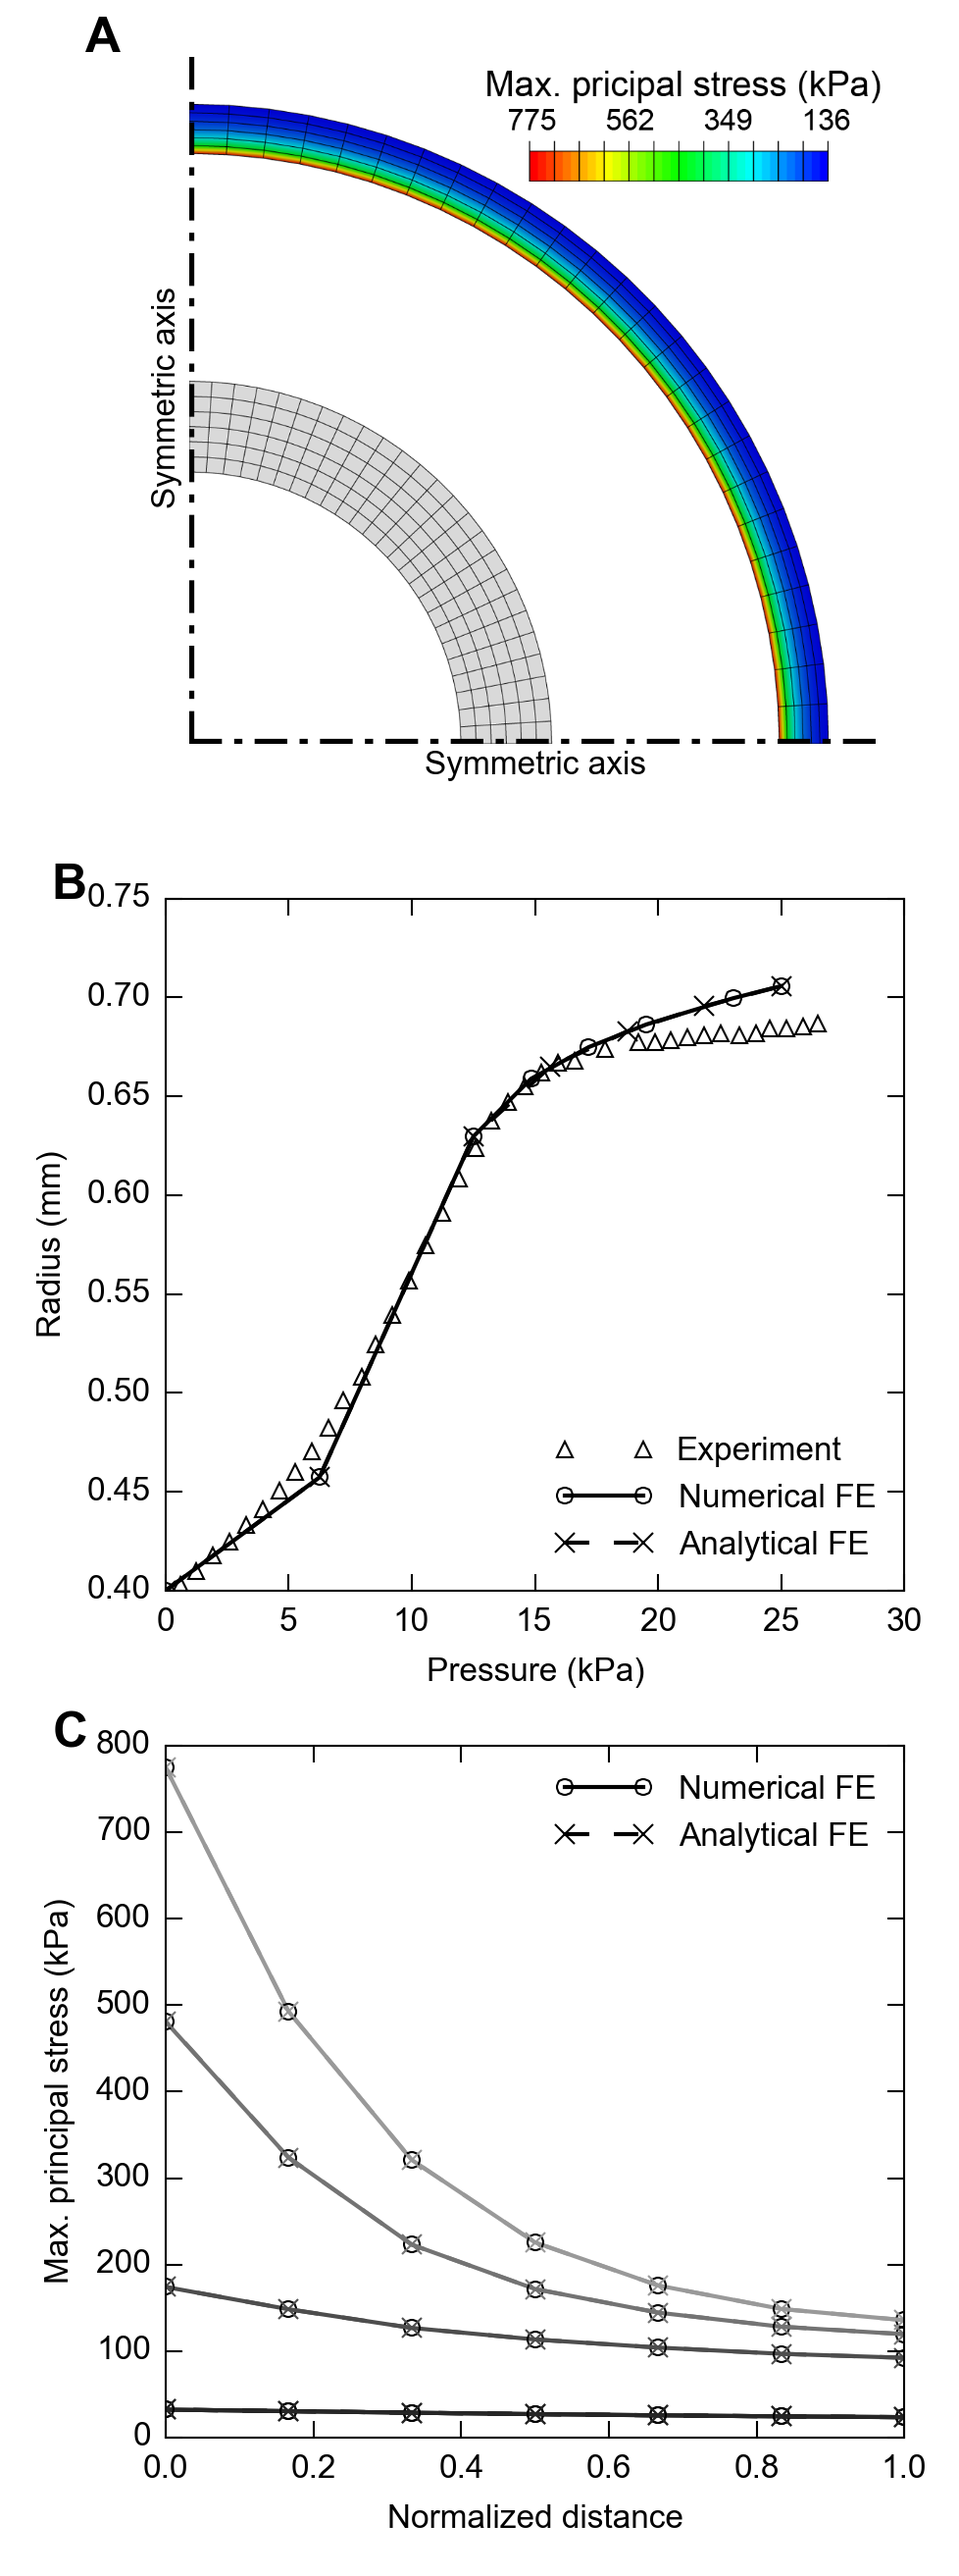
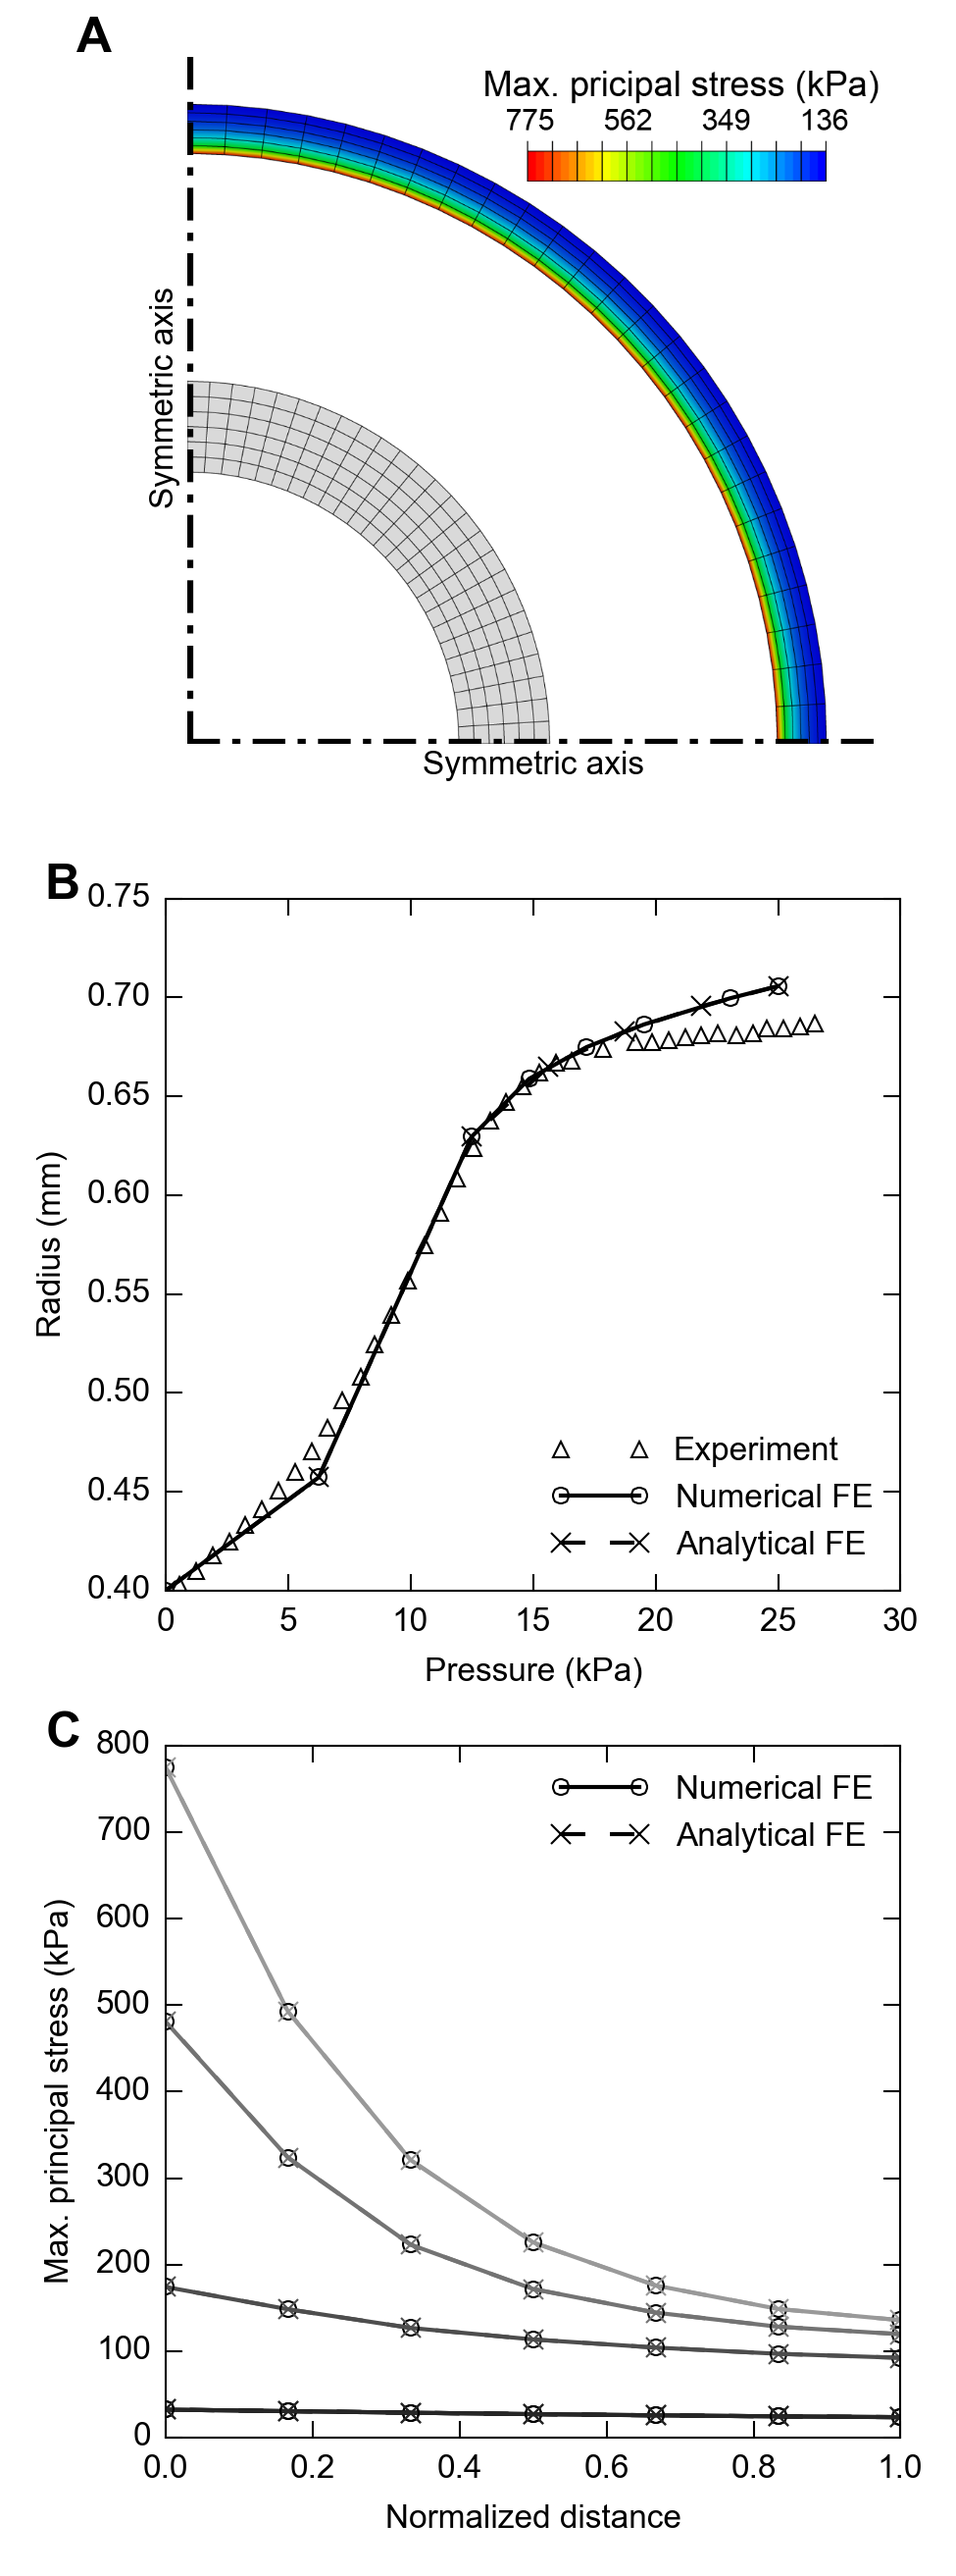
Adjusted plot for journal

diff --git a/plotartery.py b/plotartery.py
@@ -34,7 +34,7 @@ for i, key in enumerate(stress_ana_raw):
     stress_ana[:, i] = np.interp(press_dist, press_ana_raw.astype(float),
                                  stress_ana_raw[key].astype(float))
 # %% Start plotting
-fig, axs = plt.subplots(3, 1, figsize=(3.27, 8.75))
+fig, axs = plt.subplots(3, 1, figsize=(3.25, 8.75))
 # Screenshot
 im = plt.imread('./plots/screenshot_artery.png')
 axs[0].imshow(im)
@@ -65,7 +65,7 @@ axs[2].set_ylabel('Max. principal stress (kPa)')
 # Organize and save
 fig.tight_layout()
 for axes_id, axes in enumerate(axs.ravel()):
-    axes.text(-.15, 1.05, chr(65 + axes_id), transform=axes.transAxes,
+    axes.text(-.16, 1.05, chr(65 + axes_id), transform=axes.transAxes,
               fontsize=12, fontweight='bold', va='top')
 fig.savefig('./plots/arteryinfl.png')
 plt.close(fig)

diff --git a/param_select.py b/param_select.py
@@ -259,7 +259,7 @@ if __name__ == '__main__':
     for i, dfgrd in enumerate(dfgrd_list_shear):
         dfgrd[0, 1] = f12[i]
     # Start plotting
-    fig, axs = plt.subplots(3, 3, figsize=(6.83, 6.83))
+    fig, axs = plt.subplots(3, 3, figsize=(6.5, 6.5))
     plot_error(dfgrd_list_uniaxial, (0, 0), params, axs[:, 0])
     plot_error(dfgrd_list_biaxial, (0, 0), params, axs[:, 1])
     plot_error(dfgrd_list_shear, (0, 1), params, axs[:, 2],

diff --git a/sta2xlsx.py b/sta2xlsx.py
@@ -19,7 +19,7 @@ def read_sta(jname):
 
 if __name__ == '__main__':
     jprefix_list = ['ArteryInflSymm', 'SingleElemCompress', 'SingleElemEqui',
-                    'SingleElemShear']
+                    'SingleElemShear', 'SingleElemTensile']
     jsuffix_list = ['Analytic', 'Numeric']
     for jprefix in jprefix_list:
         for jsuffix in jsuffix_list:
